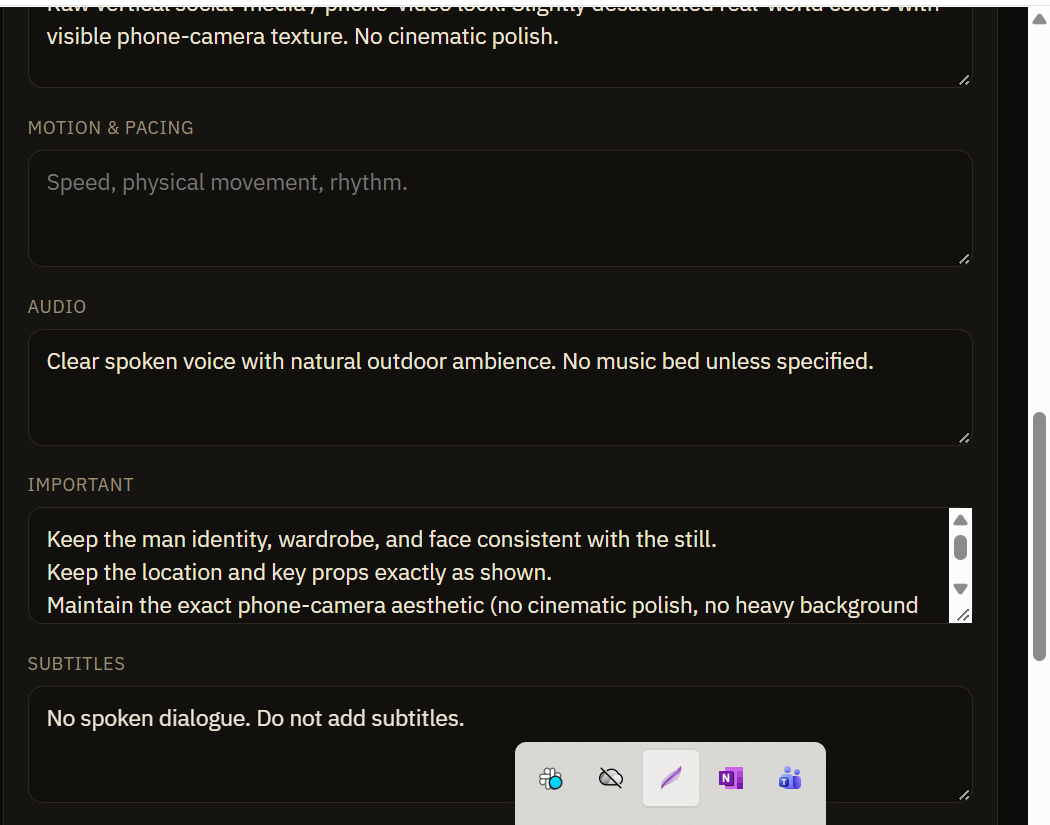
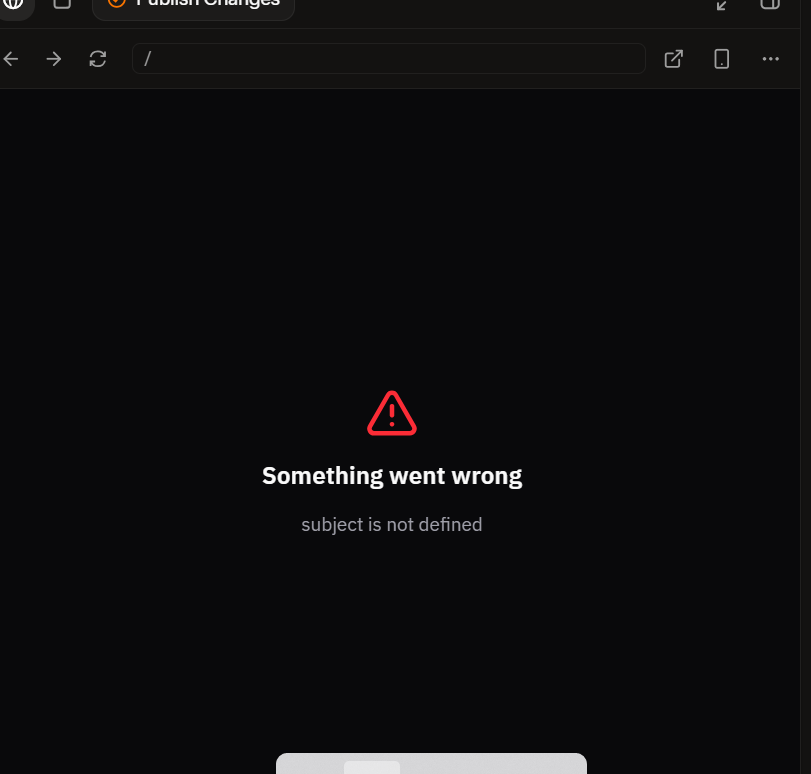
Export from Grok

diff --git a/src/lib/write-guide-plate.ts b/src/lib/write-guide-plate.ts
@@ -1,0 +1,167 @@
+import { assemblePlate } from "./parse-prompt";
+import { type SectionName } from "./prompt-standard";
+
+export const SUBJECT_TAGS = ["Man", "Woman", "Child", "Officer"] as const;
+export type SubjectTag = (typeof SUBJECT_TAGS)[number];
+
+export type StillMetrics = {
+  width: number;
+  height: number;
+  brightness: number;
+  warmth: number;
+  saturation: number;
+  contrast: number;
+};
+
+type Voice = {
+  noun: string;
+  Noun: string;
+  they: string;
+  their: string;
+  them: string;
+  speak: string;
+};
+
+const VOICE: Record<SubjectTag, Voice> = {
+  Man: { noun: "man", Noun: "Man", they: "he", their: "his", them: "him", speak: "speaks" },
+  Woman: { noun: "woman", Noun: "Woman", they: "she", their: "her", them: "her", speak: "speaks" },
+  Child: { noun: "child", Noun: "Child", they: "they", their: "their", them: "them", speak: "speak" },
+  Officer: {
+    noun: "officer",
+    Noun: "Officer",
+    they: "the officer",
+    their: "the officer's",
+    them: "the officer",
+    speak: "speaks",
+  },
+};
+
+function timeOfDay(m: StillMetrics | null): string {
+  if (!m) return "Match the time of day exactly as frozen in the reference still";
+  if (m.brightness < 0.22) return "Night or deep shade. Low overall illumination";
+  if (m.brightness < 0.4) return "Late day, dusk, or heavy overcast. Dim outdoor or interior light";
+  if (m.brightness > 0.78) return "Bright daylight. High overall exposure";
+  return "Daytime. Moderate natural illumination";
+}
+
+function colorCast(m: StillMetrics | null): string {
+  if (!m) return "Keep the colour temperature of the still";
+  if (m.warmth > 0.12) return "Warm colour cast — amber, sun, or tungsten bias";
+  if (m.warmth < -0.08) return "Cool colour cast — overcast, open shade, or daylight-blue bias";
+  return "Neutral, slightly muted real-world colour";
+}
+
+function phoneLook(vertical: boolean): boolean {
+  return vertical;
+}
+
+export function writeGuidePlate(input: {
+  subject: SubjectTag;
+  metrics?: StillMetrics | null;
+}): string {
+  const tag = input.subject;
+  const v = VOICE[tag];
+  const m = input.metrics ?? null;
+  const vertical = m ? m.height / m.width >= 1.15 : true;
+  const landscape = m ? m.width / m.height >= 1.25 : false;
+  const phone = phoneLook(vertical);
+  const time = timeOfDay(m);
+  const cast = colorCast(m);
+  const sat =
+    !m ? "saturation as in the still" : m.saturation < 0.18
+      ? "slightly desaturated real-world colours"
+      : m.saturation > 0.42
+        ? "punchy, high-saturation colour"
+        : "natural, slightly muted colour";
+  const contrast =
+    !m ? "contrast as in the still" : m.contrast < 0.12
+      ? "soft, flat contrast with no deep blacks"
+      : m.contrast > 0.28
+        ? "harder contrast with visible highlight roll-off"
+        : "moderate contrast, no cinematic grade";
+
+  const frame = !m
+    ? "the same aspect ratio as the reference still"
+    : vertical
+      ? "vertical / 9:16 social-media frame"
+      : landscape
+        ? "horizontal widescreen frame"
+        : "near-square frame";
+
+  const camera = phone
+    ? `Natural phone-camera aesthetic. It must look as if it was shot on a phone, not professionally. Soft focus, visible digital noise, slight compression, uneven real-world lighting. The background must stay visible — no heavy cinematic blur, no anamorphic polish. ${vertical ? "Vertical phone framing." : "Match the still's framing."} Medium close-up to mid-shot as in the still. Slow, steady zoom-in. Subtle handheld micro-movement.`
+    : `Match the lens perspective, shot size, and camera height of the reference still. Do not invent a cinematic camera that is not in the photograph. Background remains readable. Slow continuous zoom-in. Subtle handheld micro-movement only if the still already feels handheld.`;
+
+  const sections: { name: SectionName; body: string }[] = [
+    {
+      name: "SCENE",
+      body: `${time}. ${frame}. The location, architecture, weather, ground, and overall visual situation must remain exactly as frozen in the reference still — every wall, sign, vehicle, plant, sky, and piece of debris. Do not relocate the shot. Do not add buildings, rooms, or landscape that are not in the still. ${cast}.`,
+    },
+    {
+      name: "SUBJECT",
+      body: `[${tag}]
+The ${v.noun} is the person frozen in the reference still. Keep that exact face, age, hair, skin, facial hair, makeup, and expression. Keep wardrobe identical: every garment, colour, zipper, collar, badge, hat, and accessory. Hands, nails, and any object ${v.they} hold stay the same.
+${v.Noun} stands in the same place relative to camera, background, and props, holding the pose and gesture shown. ${v.they.charAt(0).toUpperCase()}${v.they.slice(1)} continues that action — pointing, speaking, looking, walking, or standing — without changing identity. Do not swap in a different ${v.noun}.`,
+    },
+    {
+      name: "ACTION",
+      body: `The shot begins on the exact freeze-frame of the still. ${v.Noun} holds the pose for a beat, then continues the motion already implied: the pointing hand, the turn of the head, the mouth moving as ${v.they} ${v.speak}, the weight shift in the stance. Movement stays natural and readable. Nothing else in the location starts a new story. No extra people enter. No props appear or vanish.`,
+    },
+    {
+      name: "CAMERA",
+      body: camera,
+    },
+    {
+      name: "COMPOSITION",
+      body: `${v.Noun} stays in the same region of the frame as in the still. Background elements, signs, and props keep their original positions. Any on-screen graphic or caption in the still stays in that same third of the frame, same scale, same alignment. Do not re-centre, do not crop to a new shot size.`,
+    },
+    {
+      name: "LIGHTING",
+      body: `${time}. ${cast}. ${contrast}. Light direction, hardness, and colour must match the still — no new key light, no rim light, no studio fill. Shadows stay where they already fall on face, clothes, and ground.`,
+    },
+    {
+      name: "STYLE",
+      body: phone
+        ? `Raw vertical social-media / phone-video look. ${sat}. Visible phone-camera texture and mild compression. High-contrast graphic text overlays only if they already exist in the still. No film emulation, no heavy grade, no beauty filter.`
+        : `Match the visual language of the still: realism, texture, and ${sat}. No new film stock, no beauty filter, no cinematic LUT that the photograph does not already have.`,
+    },
+    {
+      name: "MOTION & PACING",
+      body: `Moderate energy. ${v.Noun}'s gesture and head movement are clear but natural. Slow continuous zoom-in throughout the shot. Overall pacing feels direct and punchy. No slow-motion, no freeze, no whip-pan.`,
+    },
+    {
+      name: "AUDIO",
+      body: `Clear spoken voice if ${v.they} ${v.speak}, with natural ambience that fits the location in the still (outdoor wind, room tone, distant quiet). No music bed unless the still already implies it.`,
+    },
+    {
+      name: "IMPORTANT",
+      body: `Keep the ${v.noun}'s face, hair, wardrobe, and expression consistent with the reference still.
+Keep the location, props, signs, and any on-screen text exactly as shown.
+Maintain the camera aesthetic of the still${phone ? " (phone-camera, no cinematic polish, no heavy background blur)" : ""}.
+Do not change on-screen text style.
+Do not invent people, logos, or objects.`,
+    },
+    {
+      name: "DIALOGUE",
+      body: `Character: ${tag}
+Exact dialogue: none unless readable on-screen text or a clearly spoken line is already in the still — then use that exact wording, no paraphrase.
+Delivery: natural to the pose; if the still is energetic and direct-to-camera, keep that energy; if quiet, keep it quiet.`,
+    },
+    {
+      name: "SUBTITLES",
+      body: `If there is spoken dialogue, display that exact line as subtitles.
+White sans-serif or match any on-screen text style already in the still, including colour highlights.
+Bottom-center placement.
+Synchronize precisely with the spoken words.
+Do not alter, paraphrase, or add text.
+If Exact dialogue is none: no subtitles.`,
+    },
+  ];
+
+  return assemblePlate(
+    sections.map((s) => ({
+      name: s.name,
+      body: s.body.trim(),
+    })),
+  );
+}

diff --git a/src/lib/prompt-standard.ts b/src/lib/prompt-standard.ts
@@ -69,7 +69,9 @@ export function buildSystemPrompt(): string {
   const markers = SECTION_ORDER.map((name) => sectionMarker(name)).join("\n");
   return `You are a specialist cinematographer-writer for MiniMax video generation.
 
-Look at ONE still and write a MiniMax plate that a video model can follow to animate that exact freeze-frame. Be very detailed. Lock face, wardrobe, location, props, on-screen text, and camera language to what is actually in the photograph.
+You are given ONE still. Treat the GOLD-STANDARD EXAMPLE as the sample of craft — density, structure, and how to watch a freeze-frame — not as facts to copy unless this still is that same photograph.
+
+Look at this still with discretion. Describe what is actually happening: who is there, how they look, the pose, the gesture, what they are doing in this instant, and the natural next beats of that action. Infer only motion that could continue from this freeze-frame. Do not invent a different story, person, location, or prop.
 
 OUTPUT RULES
 - Output ONLY the plate. No preamble, no markdown, no title.
@@ -80,10 +82,10 @@ ${markers}
 
 - Do not copy helper instructions such as “Describe the location, time and overall visual situation.” Those are not the plate.
 - Present tense. Concrete. Name materials, colors, garments, positions, gestures, textures, weather, and any readable text.
-- Do not invent props, wardrobe, signage, or locations that are not in the still. Infer only the motion that could continue from this freeze-frame.
-- [SCENE] is a dense description of place, time of day, weather, and the overall visual situation.
-- [SUBJECT] first line is exactly one of [Man] [Woman] [Child] [Officer]. Then a long description of appearance AND what they are doing: age, hair, skin, clothes, hands, pose, expression, gesture, where they stand relative to camera and other objects.
-- [ACTION] chronological beats grounded in the pose, then the natural next motion.
+- Do not invent props, wardrobe, signage, or locations that are not in the still.
+- [SCENE] dense place, time of day, weather, overall visual situation as seen.
+- [SUBJECT] first line is exactly one of [Man] [Woman] [Child] [Officer]. Then a long description of appearance AND what they are doing right now: age, hair, skin, clothes, hands, pose, expression, gesture, where they stand relative to camera and other objects.
+- [ACTION] chronological beats grounded in the pose, then the natural next motion. Be specific (points at the sign, turns the head, mouth opens to speak, weight shifts).
 - [CAMERA] match the still. If it looks like a phone / social clip: phone-camera aesthetic, visible noise, mild compression, background NOT blurred, subtle handheld. If cinematic, describe that instead.
 - [COMPOSITION] where subject, background, props, and on-screen text sit.
 - [LIGHTING] source, direction, quality, color.
@@ -99,12 +101,12 @@ ${markers}
 - [SUBTITLES] how to show that exact line. Match on-screen text style if present. If none: No spoken dialogue. Do not add subtitles.
 - Density must match or exceed the gold-standard example. Never write “the image shows”. Never mention being an AI.
 
-GOLD-STANDARD EXAMPLE:
+GOLD-STANDARD EXAMPLE (sample of craft):
 ${GOLD_STANDARD_EXAMPLE}`;
 }
 
 export function buildUserPrompt(): string {
-  return "Write the MiniMax plate for this still. Describe in detail what is happening. [SUBJECT] must include appearance and the person’s actions. Use [SCENE] style markers only — no instruction sentences under the headings.";
+  return "Look at this still. Using the gold-standard sample as your writing craft, describe in detail what is happening — the person, their appearance, their pose, and their actions — then the natural next motion. Fill every MiniMax marker. Do not copy the sample's house, sign, or man unless they are actually in THIS still.";
 }
 
 export const DEFAULT_STANDARD = GOLD_STANDARD_EXAMPLE;

diff --git a/src/lib/analyze-still.ts b/src/lib/analyze-still.ts
@@ -1,0 +1,56 @@
+import type { StillMetrics } from "./write-guide-plate";
+
+export async function analyzeStill(dataUrl: string): Promise<StillMetrics | null> {
+  if (typeof document === "undefined") return null;
+  try {
+    const img = await loadImage(dataUrl);
+    const canvas = document.createElement("canvas");
+    const maxEdge = 96;
+    const scale = maxEdge / Math.max(img.width, img.height);
+    canvas.width = Math.max(1, Math.round(img.width * scale));
+    canvas.height = Math.max(1, Math.round(img.height * scale));
+    const ctx = canvas.getContext("2d", { willReadFrequently: true });
+    if (!ctx) return { width: img.width, height: img.height, brightness: 0.5, warmth: 0, saturation: 0.25, contrast: 0.18 };
+    ctx.drawImage(img, 0, 0, canvas.width, canvas.height);
+    const { data } = ctx.getImageData(0, 0, canvas.width, canvas.height);
+    let lumaSum = 0;
+    let warmSum = 0;
+    let satSum = 0;
+    const lumas: number[] = [];
+    const n = data.length / 4;
+    for (let i = 0; i < data.length; i += 4) {
+      const r = data[i]! / 255;
+      const g = data[i + 1]! / 255;
+      const b = data[i + 2]! / 255;
+      const max = Math.max(r, g, b);
+      const min = Math.min(r, g, b);
+      const luma = 0.2126 * r + 0.7152 * g + 0.0722 * b;
+      lumaSum += luma;
+      lumas.push(luma);
+      warmSum += r - b;
+      satSum += max === 0 ? 0 : (max - min) / max;
+    }
+    lumas.sort((a, b) => a - b);
+    const p10 = lumas[Math.floor(n * 0.1)] ?? 0;
+    const p90 = lumas[Math.floor(n * 0.9)] ?? 1;
+    return {
+      width: img.width,
+      height: img.height,
+      brightness: lumaSum / n,
+      warmth: warmSum / n,
+      saturation: satSum / n,
+      contrast: Math.max(0, p90 - p10),
+    };
+  } catch {
+    return null;
+  }
+}
+
+function loadImage(src: string): Promise<HTMLImageElement> {
+  return new Promise((resolve, reject) => {
+    const img = new Image();
+    img.onload = () => resolve(img);
+    img.onerror = () => reject(new Error("Could not read that still."));
+    img.src = src;
+  });
+}

diff --git a/src/lib/write-plate.ts b/src/lib/write-plate.ts
@@ -1,5 +1,6 @@
-import { buildSystemPrompt, buildUserPrompt } from "./prompt-standard";
 import { assemblePlate, parsePlate, stripFences } from "./parse-prompt";
+import { env } from "./env.server";
+import { buildSystemPrompt, buildUserPrompt } from "./prompt-standard";
 
 export type WritePlateOk = { ok: true; plate: string };
 export type WritePlateErr = { ok: false; error: string; status: number };
@@ -127,7 +128,7 @@ export async function stillToDataUrl(input: {
 export async function writePlateFromDataUrl(
   imageDataUrl: string,
 ): Promise<WritePlateResult> {
-  const apiKey = process.env.XAI_API_KEY?.trim();
+  const apiKey = env("XAI_API_KEY");
   if (!apiKey) {
     return {
       ok: false,

diff --git a/src/components/app-header.tsx b/src/components/app-header.tsx
@@ -14,7 +14,7 @@ export function AppHeader({ onHistory, historyCount }: AppHeaderProps) {
           Shot <span className="text-mark">Standard</span>
         </p>
         <p className="mt-1 text-xs tracking-wide text-muted">
-          No form. Drop a still → Write plate.
+          Drop a still. Grok writes the MiniMax plate.
         </p>
       </div>
       <Button variant="ghost" size="sm" onClick={onHistory}>

diff --git a/src/components/plate-view.tsx b/src/components/plate-view.tsx
@@ -177,8 +177,8 @@ function EmptyPlate() {
         Waiting on a still
       </p>
       <p className="max-w-sm text-sm text-muted">
-        Grok fills the whole MiniMax plate from the image. Send to n8n after it
-        writes.
+        Grok watches this still the way the sample does: who is there, what they
+        are doing, and the next action. Then it writes every MiniMax marker.
       </p>
     </div>
   );

diff --git a/src/components/controls-panel.tsx b/src/components/controls-panel.tsx
@@ -53,7 +53,7 @@ export function ControlsPanel({
           onChange={(e) => onWebhookUrl(e.target.value)}
         />
         <p className="text-xs text-subtle">
-          Saved on this device. Used by Send to n8n.
+          Grok reads the still in your MiniMax sample. Then send to n8n.
         </p>
       </div>
     </div>

diff --git a/API.md b/API.md
@@ -2,6 +2,8 @@
 
 Public HTTP API on the same host as the desk.
 
+Grok 4.5 looks at the still and writes a MiniMax plate in the training-guide format.
+
 ## Find it
 
 ```
@@ -34,23 +36,10 @@ Success:
 { "ok": true, "plate": "[SCENE]\n...\n\n[SUBJECT]\n[Man]\n..." }
 ```
 
-Error:
-
-```json
-{ "ok": false, "error": "..." }
-```
-
 ## n8n
 
-1. Node: **HTTP Request**
-2. Method: `POST`
-3. URL: `https://YOUR-HOST/api/generate`
-4. Body: JSON
-   - `imageUrl` = public URL of the still, or
-   - `image` = binary converted to base64
-5. Timeout: at least 90 seconds
-6. If the server has `SHOT_API_KEY` set, add header `x-api-key`
-
-Optional first node: `GET https://YOUR-HOST/api/health` to confirm the app is up.
-
-This is not an official n8n app node. Wire it with HTTP Request.
+1. HTTP Request → `POST` `/api/generate`
+2. JSON body: `imageUrl` or `image`
+3. Timeout: at least 90 seconds
+4. Plate is `{{ $json.plate }}`
+5. Header `x-api-key` only if `SHOT_API_KEY` is set on the server
